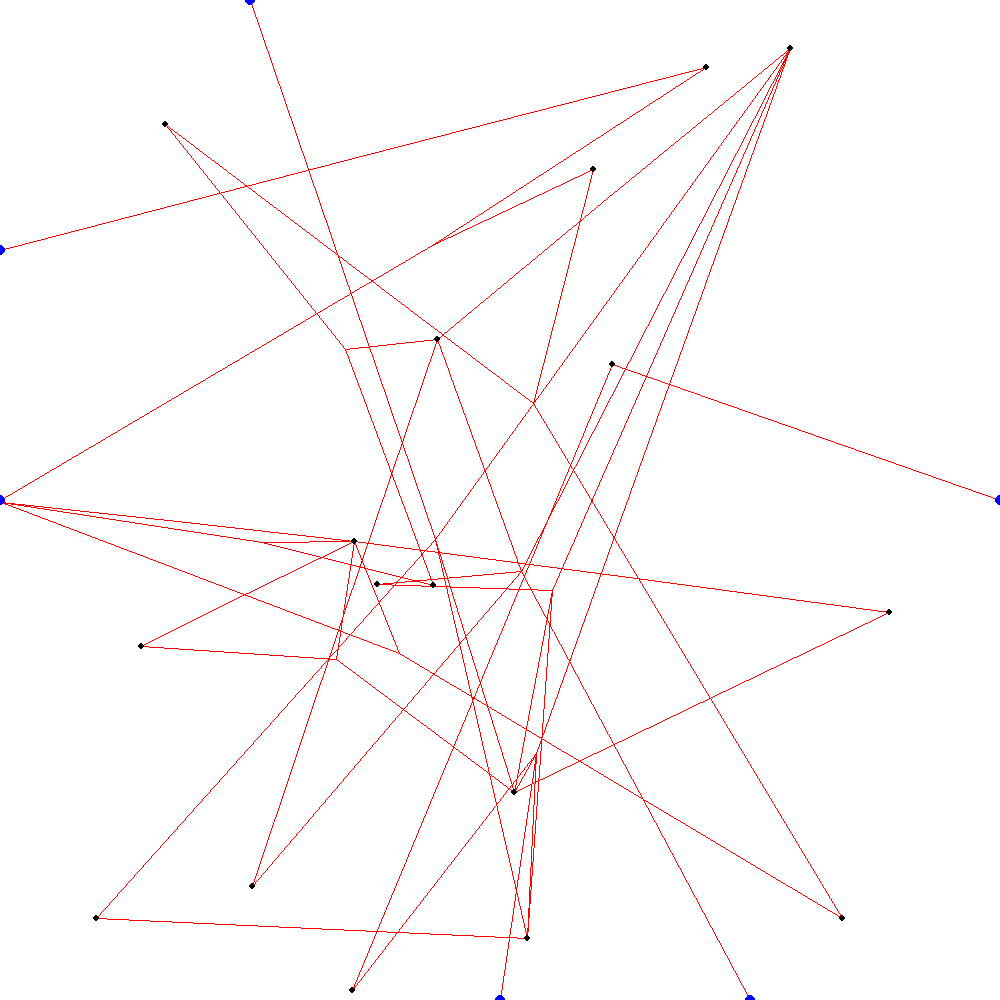
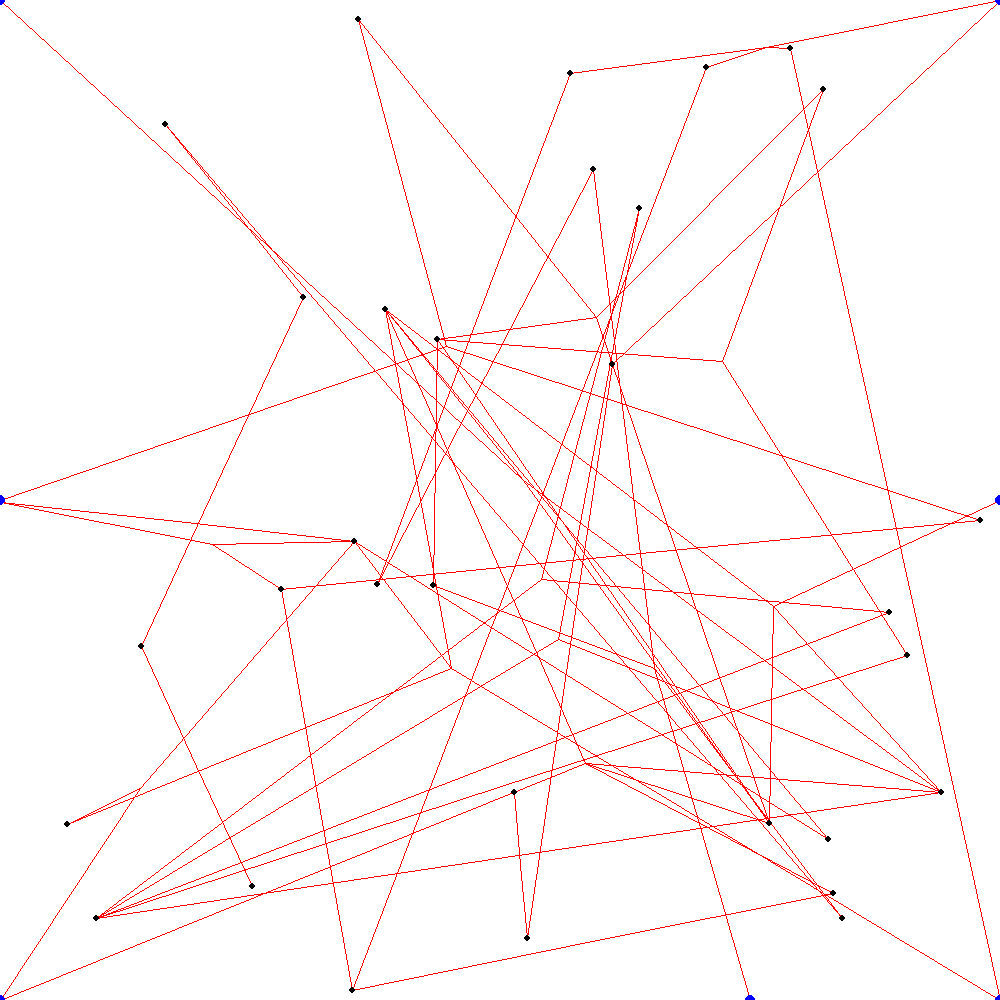
Ass2

diff --git a/main.py b/main.py
@@ -69,13 +69,116 @@ def getHPWL(net_list, cell_list, pad_list):
         Y = []
 
     return HPWL
+###############################################################
+# ASSIGNMENT 2
 
+def solve_AX_b(A,b):
+    inverse_A = np.linalg.inv(A)
+    result = np.dot(b,inverse_A)
+    return result
+
+def QuadraticPlacement(net_list, cell_list, pad_list):
+
+    cell_number = len(cell_list)
+    pad_number = len(pad_list)
+    # cell 또는 pad가 연결되어 있으면 1 아니면 0인 표. 즉, 가중치 표
+    weight = [[0 for _ in range(cell_number+pad_number)] for _ in range(cell_number+pad_number)]
+
+    #################################
+    # net로 서로 연결된 pad와 cell을 조사하여 가중치 표를 만듦.
+
+    for i in range(len(net_list)):
+        net_i: data_structures.Net = net_list[i]
+
+        connected_cell_num = len(net_i.connected_cells)
+        connected_pad_num = len(net_i.connected_pad)
+        cell_id_and_pad_id_for_net_i = []
+        for j in range(connected_cell_num):
+            theCell: data_structures.Cell = cell_list[net_i.connected_cells[j] - 1]
+            cell_id = int(theCell.id)
+            cell_id_and_pad_id_for_net_i.append(cell_id)
+        for j in range(connected_pad_num):
+            thePad: data_structures.Pad = pad_list[net_i.connected_pad[j] - 1]
+            pad_id = int(thePad.pad_id)
+            cell_id_and_pad_id_for_net_i.append(pad_id)
+
+        for j in range(connected_cell_num+connected_pad_num):
+            for k in range(1, connected_cell_num+connected_pad_num - j-1):
+                if j<connected_cell_num and j+k<connected_cell_num:
+                    weight[cell_id_and_pad_id_for_net_i[j]][cell_id_and_pad_id_for_net_i[j+k]] += 1  # 한 net로 연결되어 있는 Cell들을 콕콕 집어가며 표에 1을 더해줌.
+                    weight[cell_id_and_pad_id_for_net_i[j+k]][cell_id_and_pad_id_for_net_i[j]] += 1
+                elif j<connected_cell_num and j+k>=connected_cell_num:
+                    weight[cell_id_and_pad_id_for_net_i[j]][connected_cell_num+cell_id_and_pad_id_for_net_i[j+k]] += 1  # 한 net로 연결되어 있는 Cell들을 콕콕 집어가며 표에 1을 더해줌.
+                    weight[connected_cell_num+cell_id_and_pad_id_for_net_i[j+k]][cell_id_and_pad_id_for_net_i[j]] += 1
+                elif j >= connected_cell_num and connected_cell_num:
+                    weight[connected_cell_num+cell_id_and_pad_id_for_net_i[j]][connected_cell_num + cell_id_and_pad_id_for_net_i[j + k]] += 1  # 한 net로 연결되어 있는 Cell들을 콕콕 집어가며 표에 1을 더해줌.
+                    weight[connected_cell_num + cell_id_and_pad_id_for_net_i[j + k]][connected_cell_num+cell_id_and_pad_id_for_net_i[j]] += 1
+
+    # delete the completely used variables
+    del connected_cell_num, theCell, i, j, k
+
+    diagonal = [[0 for _ in range(cell_number)] for _ in range(cell_number)]
+    for i in range(cell_number):
+        sum = 0
+        for j in range(cell_number+pad_number):
+            sum += weight[i][j]
+        diagonal[i][i] += sum
+
+    Connectivitiy_matrix = [[0 for _ in range(cell_number)] for _ in range(cell_number)]
+    for i in range(cell_number):
+        for j in range(cell_number):
+            Connectivitiy_matrix[i][j] += weight[i][j]
+
+    A = np.matrix(diagonal) - np.matrix(Connectivitiy_matrix)
+    for i in range(cell_number):
+        print(diagonal[i])
+    # for x,
+    b_x = [[0 for _ in range(1)] for _ in range(cell_number)]
+
+    for k in range(cell_number):
+        for i in range(pad_number):
+            for j in range(cell_number):
+                if weight[i+cell_number][j] != 0:
+                    b[0][k] += weight[i+cell_number][j]*pad_list[i].coordinate[0]
+                    break
+    # for y,
+    b_y = [[0 for _ in range(1)] for _ in range(cell_number)]
+
+    for k in range(cell_number):
+        for i in range(pad_number):
+            for j in range(cell_number):
+                if weight[i + cell_number][j] != 0:
+                    b[0][k] += weight[i + cell_number][j] * pad_list[i].coordinate[1]
+                    break
+
+    cells_x = solve_AX_b(A,b_x) # Quadratic Placement의 cell의 x좌표들(세로로 배열되어 있음)
+    cells_y = solve_AX_b(A,b_y) # Quadratic Placement의 cell의 y좌표들(세로로 배열되어 있음)
+
+    # 위에서 구한 x,y를 바탕으로 cell의 좌표를 바꿔줄것임.
+    for i in range(len(cell_list)):
+
+        temp = int(cell_list[i].coordinate[0])
+        cell_list[i].coordinate[0] -= temp
+        cell_list[i].coordinate[0] += cells_x[i]
+
+        temp = int(theCell.coordinate[1])
+        cell_list[i].coordinate[1] -= temp
+        cell_list[i].coordinate[1] += cells_y[i]
+
+    del i, j, k, theCell
 
 if __name__ == '__main__':
-    filename = "benchmarks/toy1"
+    filename = "benchmarks/toy2"
     net_list, cell_list, pad_list = parsing(filename)
 
+    # random placement
     draw_window(pad_list, cell_list, net_list, ver="visualization")
     HPWL = getHPWL(net_list, cell_list, pad_list)
-    print("Initial HPWL:", HPWL)
+    print("Random Placement HPWL=", HPWL)
+
+    # quadraticPlacement
+    QuadraticPlacement(net_list, cell_list, pad_list)
+    draw_window(pad_list, cell_list, net_list, ver="visualization")
+    HPWL = getHPWL(net_list, cell_list, pad_list)
+    print("Quadratic Placement HPWL=", HPWL)
 

diff --git a/BasicCodes/dataStructures.py b/BasicCodes/dataStructures.py
@@ -16,7 +16,6 @@ class Cell:
         self.degree = int(degree)
         self.connected_nets = []
 
-
 class Pad:
     def __init__(self, pad_id, connected_net, x, y):
         self.pad_id = int(pad_id) - 1
